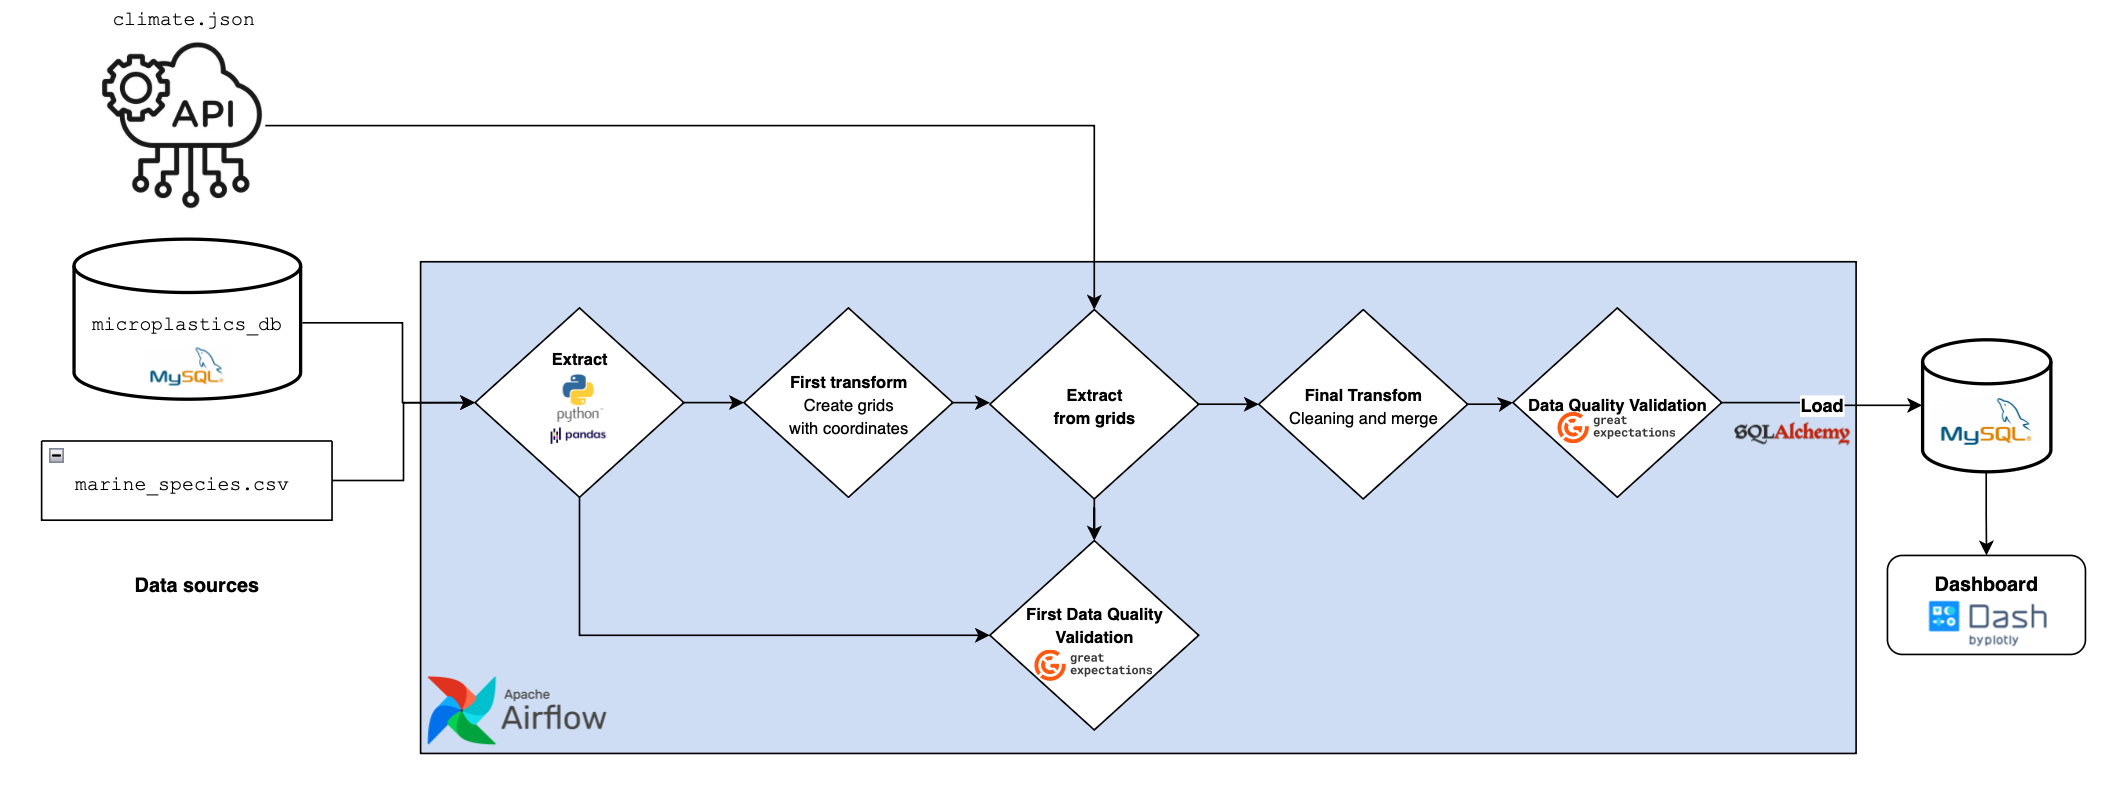
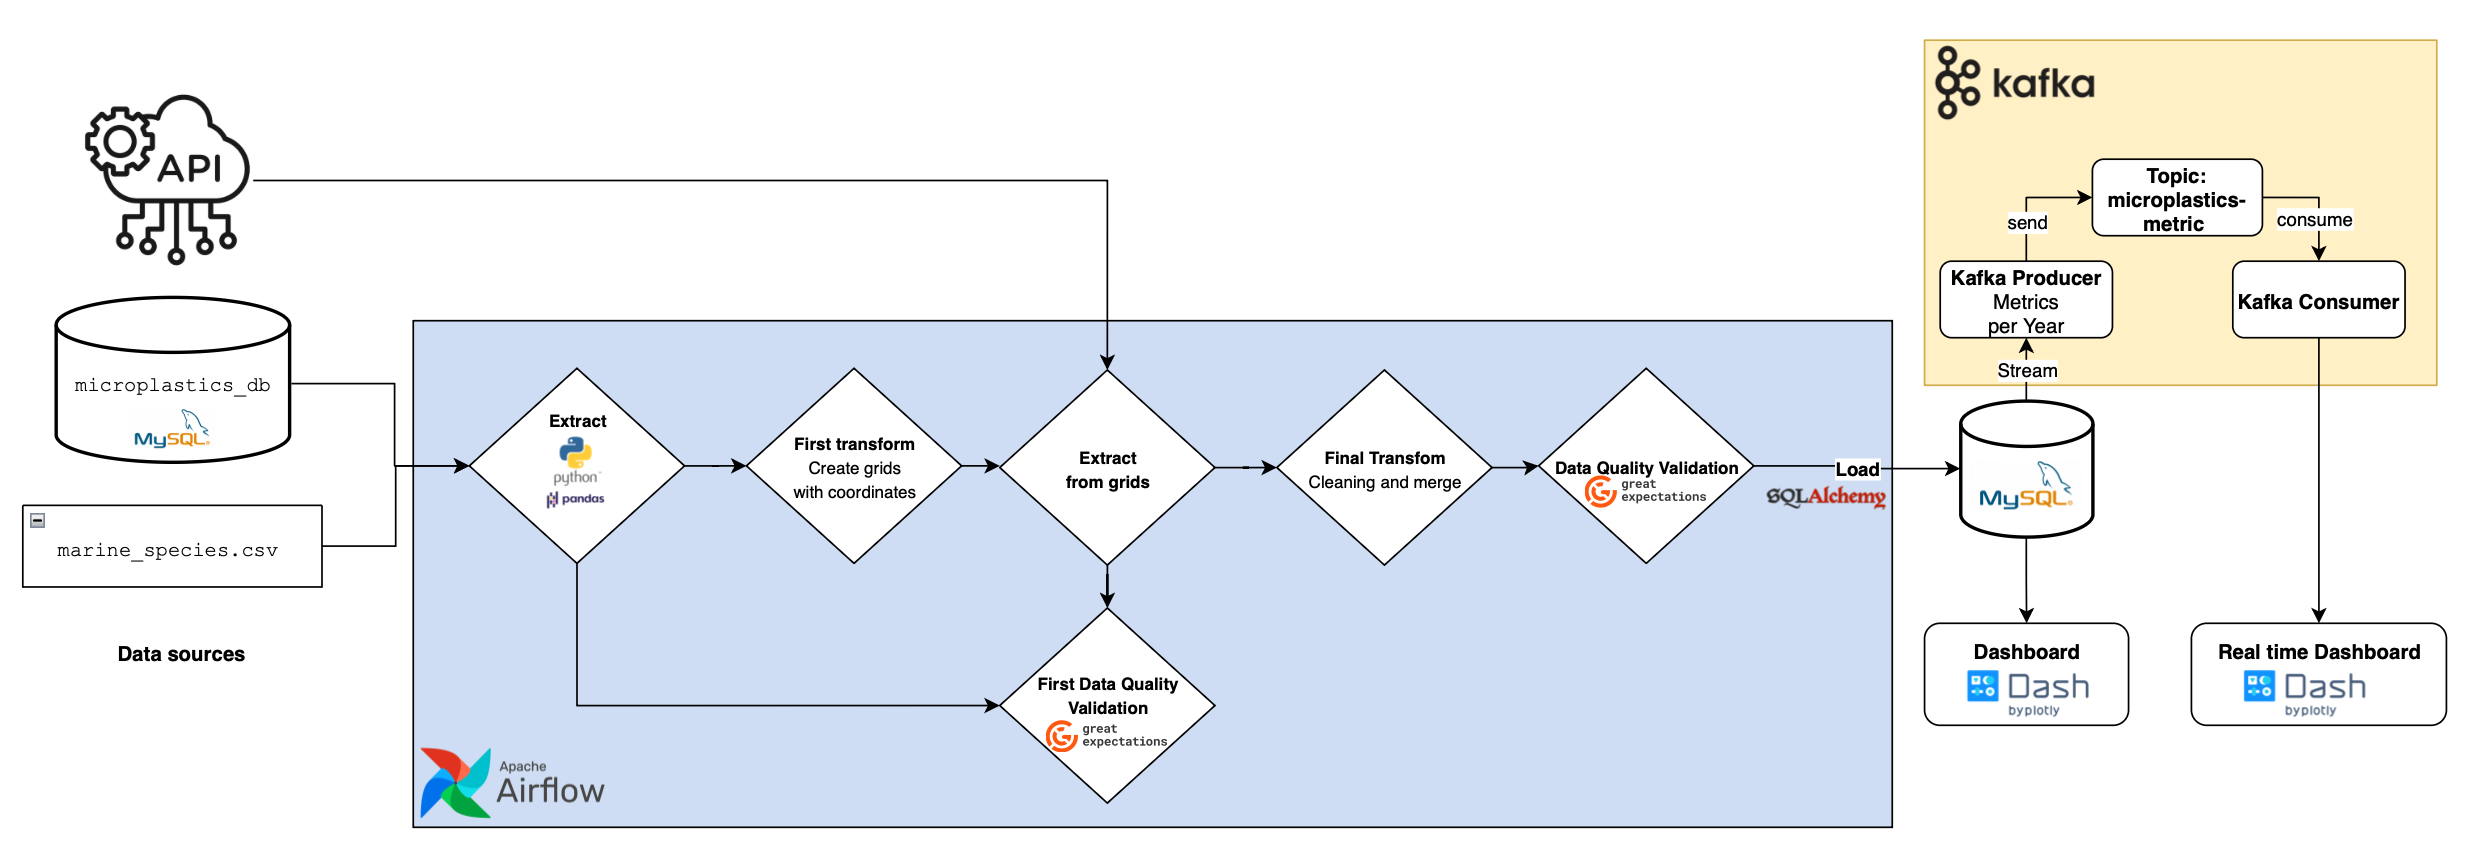
added start_kafka.bat, add diagram and change port

diff --git a/kafka/consumer.py b/kafka/consumer.py
@@ -16,7 +16,6 @@ from dash.dependencies import Input, Output
 logging.basicConfig(level=logging.INFO, format="%(asctime)s - %(levelname)s - %(message)s")
 logger = logging.getLogger(__name__)
 
-# estado en memoria
 RECENT_MESSAGES: deque = deque(maxlen=500)
 LATEST_BY_TYPE: Dict[str, Dict[str, Any]] = {}
 BY_TYPE_MESSAGE_COUNT: Dict[str, int] = {}
@@ -24,12 +23,11 @@ LOCK = threading.Lock()
 TOTAL_MESSAGES = 0
 LAST_SUCCESSFUL_CONSUME: float = 0.0
 
-# region-year averages: year, ocean_region, environment_type, avg_concentration, total_observations, unit
+
 DF_REGION_YEAR = pd.DataFrame(columns=[
     "year", "ocean_region", "environment_type", "avg_concentration", "total_observations", "unit"
 ])
 
-# ecological risk per year-region: year, ocean_region, environment_type, avg_pollution, species_count, total_microplastics, risk_raw, risk_index
 DF_RISK_YEAR = pd.DataFrame(columns=[
     "year", "ocean_region", "environment_type", "avg_pollution", "species_count", "total_microplastics", "risk_raw", "risk_index"
 ])
@@ -38,7 +36,6 @@ DF_RISK_YEAR = pd.DataFrame(columns=[
 KAFKA_BOOTSTRAP = os.getenv("KAFKA_BOOTSTRAP_SERVERS", "localhost:9092")
 KAFKA_TOPIC = os.getenv("KAFKA_TOPIC", "microplastics-metrics")
 
-# Producer ahora solo envia métricas anuales; no necesitamos monthly_observations
 ALLOWED_TYPES = {
     "avg_concentration_by_region",
     "ecological_risk_index",
@@ -49,7 +46,6 @@ REFRESH_INTERVAL_MS = int(os.getenv("DASH_POLL_INTERVAL_MS", "500"))
 
 
 def consumer_loop(bootstrap_servers=KAFKA_BOOTSTRAP, topic=KAFKA_TOPIC):
-    """Hilo que escucha Kafka y actualiza estructuras en memoria (upsert)."""
     global TOTAL_MESSAGES, LAST_SUCCESSFUL_CONSUME, DF_REGION_YEAR, DF_RISK_YEAR
     backoff = 1
     logger.info(f"Connecting to Kafka {bootstrap_servers} topic {topic}")
@@ -155,7 +151,6 @@ def consumer_loop(bootstrap_servers=KAFKA_BOOTSTRAP, topic=KAFKA_TOPIC):
             backoff = min(backoff * 2, 60)
 
 
-# utilidades para el dashboard (lectura segura)
 def _latest_year_from_region():
     with LOCK:
         if DF_REGION_YEAR.empty and DF_RISK_YEAR.empty:
@@ -169,7 +164,6 @@ def _latest_year_from_region():
 
 
 def _build_kpis():
-    """Construye tarjetas: total messages, current year, KPIs del año actual."""
     with LOCK:
         total = TOTAL_MESSAGES
         dfr = DF_RISK_YEAR.copy()
@@ -260,7 +254,6 @@ def build_dash_app():
                             "boxShadow": "0 2px 6px rgba(0,0,0,0.06)", "padding": "10px"}),
         ], style={"display": "flex", "gap": "12px"}),
 
-        # Nuevo: gráfico total observations per year
         html.Div([dcc.Graph(id="obs-graph")],
                  style={"marginTop": "20px", "backgroundColor": "#fff", "borderRadius": "10px",
                         "boxShadow": "0 2px 6px rgba(0,0,0,0.06)", "padding": "10px"}),
@@ -282,7 +275,6 @@ def build_dash_app():
         Input("interval-refresh", "n_intervals"),
     )
     def refresh(_):
-        # Build KPIs
         kpis = _build_kpis()
 
         # AVG by region: stacked bars per year (each segment = ocean)
@@ -291,8 +283,7 @@ def build_dash_app():
         fig_avg = go.Figure()
         if not df_reg.empty:
             df_reg["year"] = df_reg["year"].astype(int)
-            # create label for region segment (we keep environment_type in hover only)
-            df_reg["region_label"] = df_reg["ocean_region"].fillna("")  # now stacked by ocean only label
+            df_reg["region_label"] = df_reg["ocean_region"].fillna("") 
             pivot = df_reg.pivot_table(index="year", columns="region_label", values="avg_concentration", aggfunc="mean", fill_value=0)
             years = list(pivot.index.astype(str))
             # stacked bars: add a trace per ocean
@@ -300,24 +291,22 @@ def build_dash_app():
                 fig_avg.add_bar(x=years, y=pivot[col].values, name=str(col))
             fig_avg.update_layout(barmode="stack", title="Avg concentration by ocean (annual, stacked)")
 
-        # Risk graph: lines per OCEAN across years (risk_index); hover includes environment_type, species_count, total_microplastics, avg_pollution, risk_raw
         with LOCK:
             df_risk = DF_RISK_YEAR.copy()
         fig_risk = go.Figure()
         if not df_risk.empty:
             df_risk["year"] = df_risk["year"].astype(int)
-            # group by ocean and year, but keep environment info in hover by taking latest env per ocean-year (if multiple, show first)
             oceans = df_risk["ocean_region"].dropna().unique()
             for ocean in oceans:
                 df_o = df_risk[df_risk["ocean_region"] == ocean].sort_values("year")
-                # prepare hover customdata: env, species_count, total_microplastics, avg_pollution, risk_raw
+
                 custom_cols = []
                 for col in ["environment_type", "species_count", "total_microplastics", "avg_pollution", "risk_raw"]:
                     if col in df_o.columns:
                         custom_cols.append(df_o[col].astype(object).values)
                     else:
                         custom_cols.append([None] * len(df_o))
-                # stack into shape (n, k)
+
                 import numpy as _np
                 customdata = _np.column_stack(custom_cols)
                 fig_risk.add_scatter(
@@ -339,15 +328,12 @@ def build_dash_app():
                 )
             fig_risk.update_layout(title="Ecological risk index by ocean (annual)")
 
-        # ==== Total Observations per Year ====
         with LOCK:
             df_reg_for_obs = DF_REGION_YEAR.copy()
         fig_obs = go.Figure()
         if not df_reg_for_obs.empty:
             df_reg_for_obs["year"] = df_reg_for_obs["year"].astype(int)
-            # agrupar por año sumando observaciones
             grouped = df_reg_for_obs.groupby("year")["total_observations"].sum().reset_index()
-            # asegurar orden por año
             grouped = grouped.sort_values("year")
             fig_obs.add_scatter(
                 x=grouped["year"].astype(str),
@@ -355,7 +341,6 @@ def build_dash_app():
                 mode="lines+markers",
                 name="Total observations"
             )
-            # linea de promedio
             avg_val = grouped["total_observations"].mean()
             fig_obs.add_hline(y=avg_val, line_dash="dash", annotation_text=f"Avg = {avg_val:.1f}", annotation_position="top left")
             fig_obs.update_layout(
@@ -365,7 +350,6 @@ def build_dash_app():
                 margin=dict(t=40, b=40, l=40, r=20)
             )
 
-        # recent messages
         with LOCK:
             recent = list(RECENT_MESSAGES)[:20]
         if recent:
@@ -379,9 +363,7 @@ def build_dash_app():
             ])
         else:
             recent_div = html.Div("No recent messages")
-
         return kpis, fig_avg, fig_risk, fig_obs, recent_div
-
     return app
 
 
@@ -389,7 +371,7 @@ def run_server():
     t = threading.Thread(target=consumer_loop, daemon=True)
     t.start()
     app = build_dash_app()
-    app.run(host="127.0.0.1", port=8050, debug=False)
+    app.run(host="127.0.0.1", port=8051, debug=False)
 
 
 if __name__ == "__main__":
